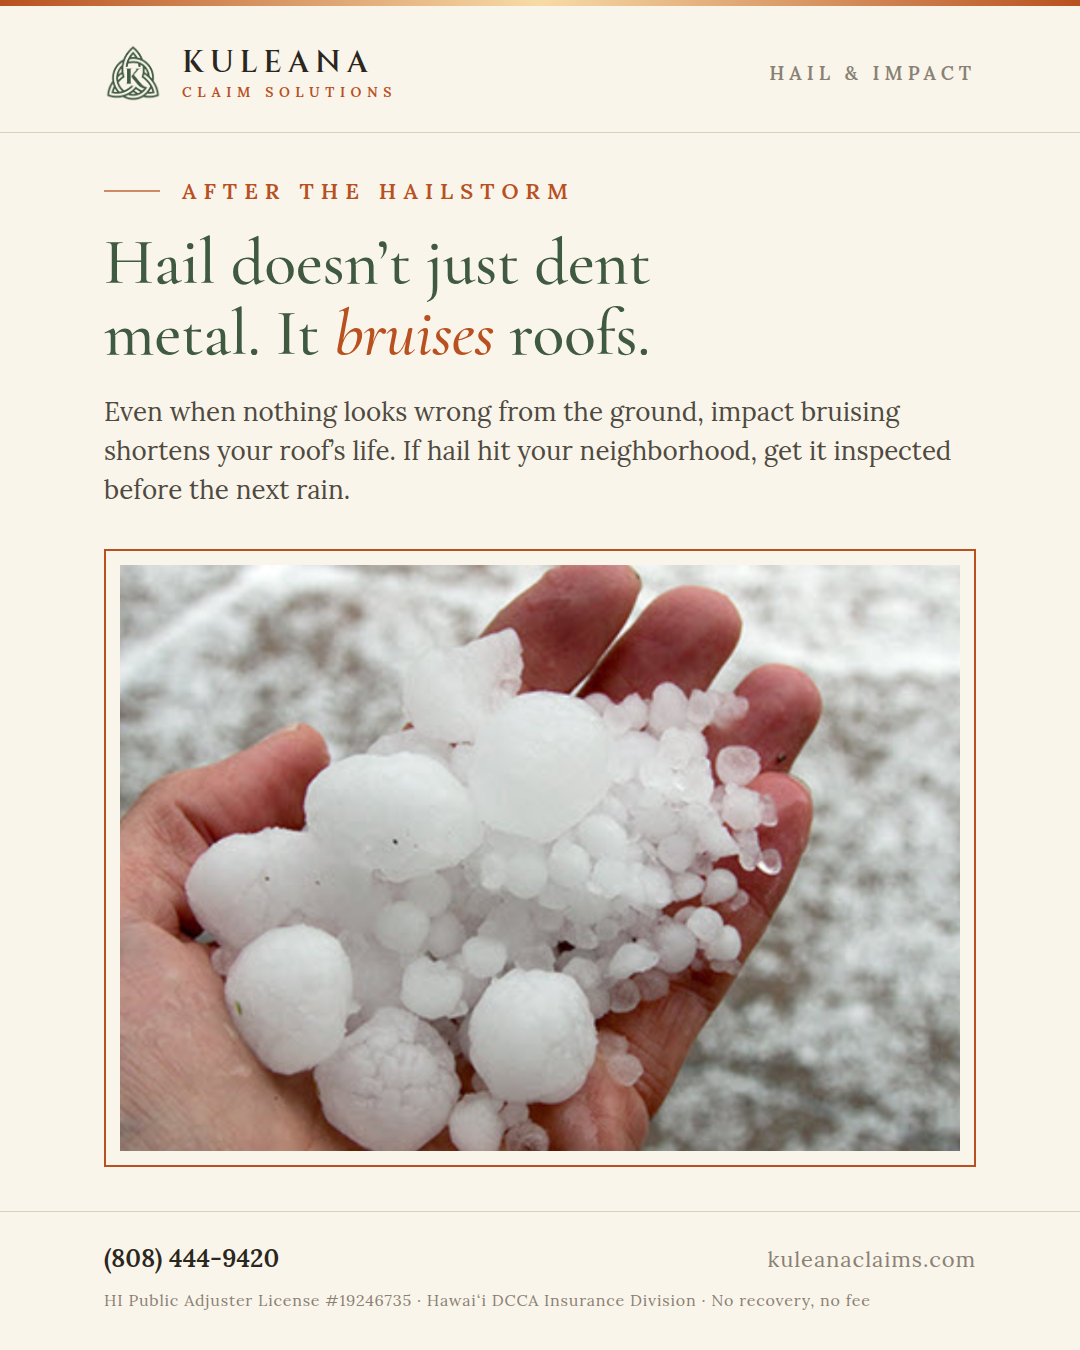
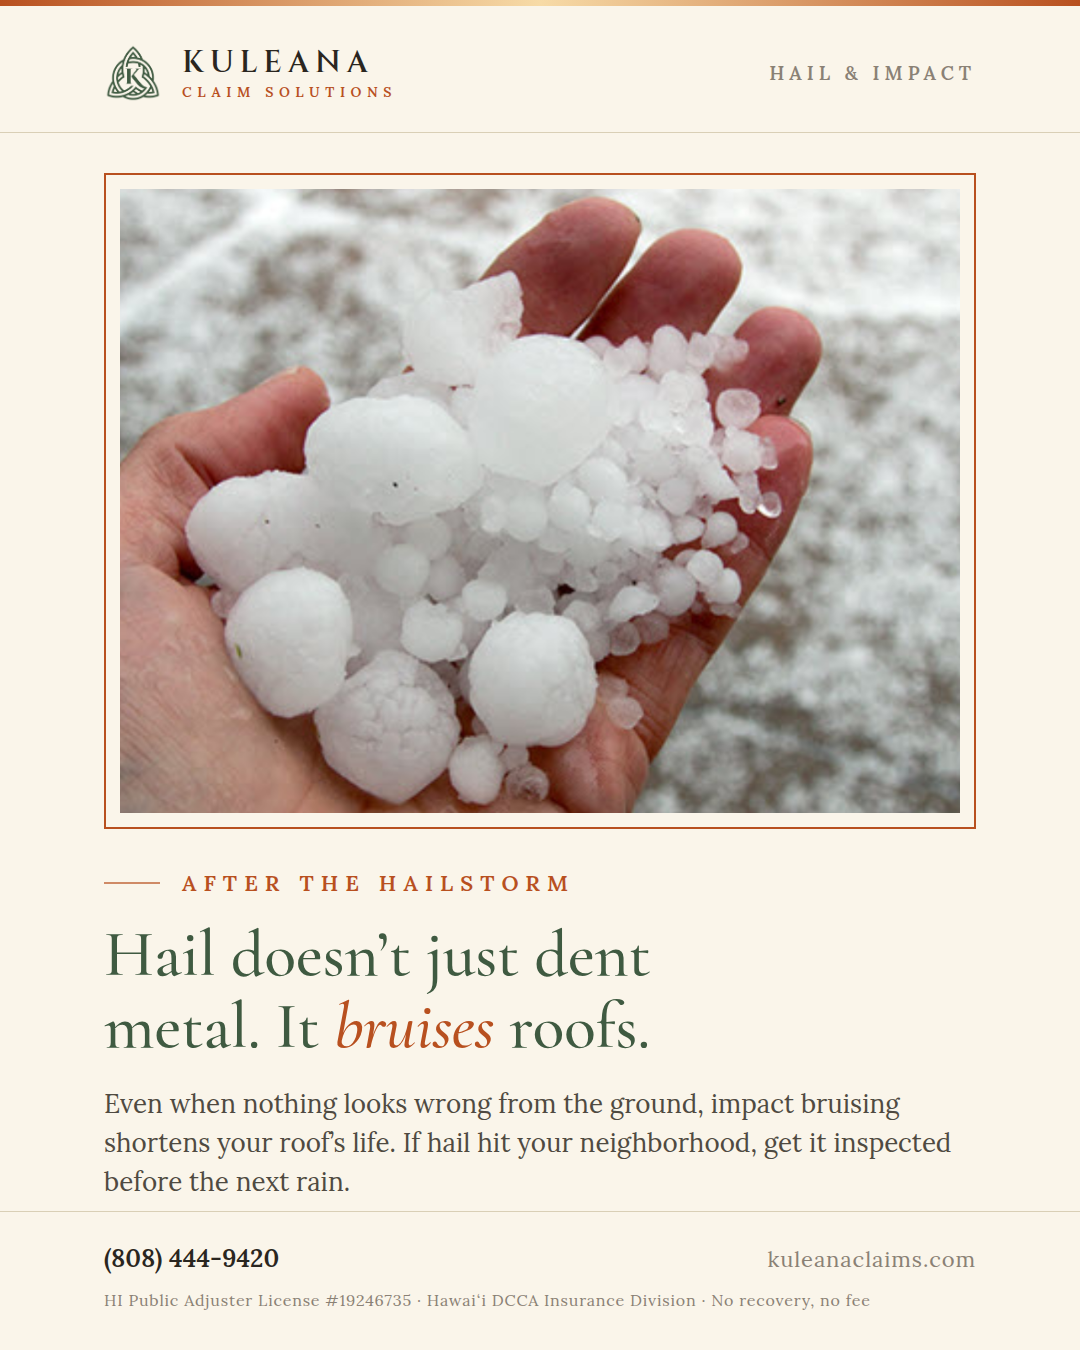
Shuffle photo-post layouts and palette across the design system
Photo posts now alternate photo-top and caption-top layouts and rotate
the brand palette (6 cream, 5 deep green, 3 terracotta) with matching
gold/cream frame treatments on dark tiles. Review sheets regenerated.

Claude-Session: https://claude.ai/code/session_012ermQFeXKetnBLvQfiukPr

diff --git a/instagram/kuleana-instagram-posts.html b/instagram/kuleana-instagram-posts.html
@@ -240,6 +240,10 @@ body { background: #E9E2D2; display: flex; flex-direction: column; align-items: 
 
 /* ================= PHOTO POSTS ================= */
 .photo-frame { flex: 1; min-height: 0; position: relative; margin: 40px 104px 44px; border: 2px solid #B8501F; padding: 14px; background: #FAF5EA; }
+.post--green .photo-frame { border-color: #F7DBA7; background: #3F5A41; }
+.post--terra .photo-frame { border-color: #FAF5EA; background: #B8501F; }
+.post--phototop .photo-frame { margin: 40px 104px 0; }
+.post--phototop .photo-body { padding: 40px 104px 10px; }
 .photo-frame img { width: 100%; height: 100%; object-fit: cover; display: block; }
 .photo-tag {
   position: absolute; right: 30px; bottom: 30px;
@@ -575,7 +579,7 @@ POST 10 · Denial quote
 <!-- ============================================================
 POST 11 · Photo post — ceiling water damage
 ============================================================ -->
-<div class="post" data-canvas-width="1080" data-canvas-height="1350">
+<div class="post post--green post--phototop" data-canvas-width="1080" data-canvas-height="1350">
   <div class="goldline"></div>
   <header class="head">
     <div class="brandlock">
@@ -584,13 +588,13 @@ POST 11 · Photo post — ceiling water damage
     </div>
     <div class="head-right">Water Damage</div>
   </header>
+  <div class="photo-frame">
+    <img src="img/library-water-damage.png" alt="Water-damaged ceiling with staining and peeling paint" width="948" height="588" />
+  </div>
   <div class="photo-body">
     <div class="eyebrow">What We Document</div>
     <h1 class="display">This ceiling was <em>whispering</em> long before it dripped.</h1>
     <p class="body">Bubbling, staining, sagging &mdash; we photograph, measure, and write the narrative your claim needs. Free inspection.</p>
-  </div>
-  <div class="photo-frame">
-    <img src="img/library-water-damage.png" alt="Water-damaged ceiling with staining and peeling paint" width="948" height="588" />
   </div>
   <footer class="foot">
     <div class="foot-top">
@@ -633,7 +637,7 @@ POST 12 · Photo post — roof wind damage
 <!-- ============================================================
 POST 13 · Photo post — hidden mold
 ============================================================ -->
-<div class="post" data-canvas-width="1080" data-canvas-height="1350">
+<div class="post post--terra post--phototop" data-canvas-width="1080" data-canvas-height="1350">
   <div class="goldline"></div>
   <header class="head">
     <div class="brandlock">
@@ -642,13 +646,13 @@ POST 13 · Photo post — hidden mold
     </div>
     <div class="head-right">Hidden Damage</div>
   </header>
+  <div class="photo-frame">
+    <img src="img/damage-mold.png" alt="Opened kitchen wall revealing mold growth on studs" width="948" height="588" />
+  </div>
   <div class="photo-body">
     <div class="eyebrow">Behind the Wall</div>
     <h1 class="display">What you can&rsquo;t see can <em>still</em> cost you.</h1>
     <p class="body">A supply-line leak doesn&rsquo;t stay in one room. Musty smells, discoloration, bubbling paint &mdash; document it before it spreads.</p>
-  </div>
-  <div class="photo-frame">
-    <img src="img/damage-mold.png" alt="Opened kitchen wall revealing mold growth on studs" width="948" height="588" />
   </div>
   <footer class="foot">
     <div class="foot-top">
@@ -662,7 +666,7 @@ POST 13 · Photo post — hidden mold
 <!-- ============================================================
 POST 14 · Photo post — after the storm
 ============================================================ -->
-<div class="post" data-canvas-width="1080" data-canvas-height="1350">
+<div class="post post--green" data-canvas-width="1080" data-canvas-height="1350">
   <div class="goldline"></div>
   <header class="head">
     <div class="brandlock">
@@ -691,7 +695,7 @@ POST 14 · Photo post — after the storm
 <!-- ============================================================
 POST 15 · Photo post — kitchen fire
 ============================================================ -->
-<div class="post" data-canvas-width="1080" data-canvas-height="1350">
+<div class="post post--phototop" data-canvas-width="1080" data-canvas-height="1350">
   <div class="goldline"></div>
   <header class="head">
     <div class="brandlock">
@@ -700,13 +704,13 @@ POST 15 · Photo post — kitchen fire
     </div>
     <div class="head-right">Fire &amp; Smoke</div>
   </header>
+  <div class="photo-frame">
+    <img src="img/damage-fire-kitchen.png" alt="Kitchen fire damage with charred cabinets and soot" width="948" height="588" />
+  </div>
   <div class="photo-body">
     <div class="eyebrow">Covered Peril &middot; Fire</div>
     <h1 class="display">Fire is fast. <em>Smoke</em> is thorough.</h1>
     <p class="body">The flames stopped at the kitchen. The smoke didn&rsquo;t. We document both &mdash; structure, contents, odor, and the residue carriers overlook.</p>
-  </div>
-  <div class="photo-frame">
-    <img src="img/damage-fire-kitchen.png" alt="Kitchen fire damage with charred cabinets and soot" width="948" height="588" />
   </div>
   <footer class="foot">
     <div class="foot-top">
@@ -720,7 +724,7 @@ POST 15 · Photo post — kitchen fire
 <!-- ============================================================
 POST 16 · Photo post — burst supply line
 ============================================================ -->
-<div class="post" data-canvas-width="1080" data-canvas-height="1350">
+<div class="post post--terra" data-canvas-width="1080" data-canvas-height="1350">
   <div class="goldline"></div>
   <header class="head">
     <div class="brandlock">
@@ -749,7 +753,7 @@ POST 16 · Photo post — burst supply line
 <!-- ============================================================
 POST 17 · Photo post — lanai hurricane damage
 ============================================================ -->
-<div class="post" data-canvas-width="1080" data-canvas-height="1350">
+<div class="post post--green post--phototop" data-canvas-width="1080" data-canvas-height="1350">
   <div class="goldline"></div>
   <header class="head">
     <div class="brandlock">
@@ -758,13 +762,13 @@ POST 17 · Photo post — lanai hurricane damage
     </div>
     <div class="head-right">Hurricane Season</div>
   </header>
+  <div class="photo-frame">
+    <img src="img/damage-lanai.png" alt="Hurricane wind damage to a lanai with shattered sliding door" width="948" height="588" />
+  </div>
   <div class="photo-body">
     <div class="eyebrow">Wind vs. Hurricane</div>
     <h1 class="display">Wind or hurricane? Your <em>deductible</em> knows the difference.</h1>
     <p class="body">Hawai&#699;i policies often carry a separate hurricane deductible. Which one applies can change your recovery by thousands. We read the policy first.</p>
-  </div>
-  <div class="photo-frame">
-    <img src="img/damage-lanai.png" alt="Hurricane wind damage to a lanai with shattered sliding door" width="948" height="588" />
   </div>
   <footer class="foot">
     <div class="foot-top">
@@ -807,7 +811,7 @@ POST 18 · Photo post — smoke damage living room
 <!-- ============================================================
 POST 19 · Photo post — solar panel storm damage
 ============================================================ -->
-<div class="post" data-canvas-width="1080" data-canvas-height="1350">
+<div class="post post--phototop" data-canvas-width="1080" data-canvas-height="1350">
   <div class="goldline"></div>
   <header class="head">
     <div class="brandlock">
@@ -816,13 +820,13 @@ POST 19 · Photo post — solar panel storm damage
     </div>
     <div class="head-right">Storm Damage</div>
   </header>
+  <div class="photo-frame">
+    <img src="img/damage-solar.png" alt="Storm-damaged rooftop solar panels with cracked cells" width="948" height="588" />
+  </div>
   <div class="photo-body">
     <div class="eyebrow">Don&rsquo;t Forget the Panels</div>
     <h1 class="display">Your roof isn&rsquo;t the <em>only thing</em> up there.</h1>
     <p class="body">Cracked cells and lifted racking are storm damage too. Panels, mounts, wiring, and lost production all belong in your claim.</p>
-  </div>
-  <div class="photo-frame">
-    <img src="img/damage-solar.png" alt="Storm-damaged rooftop solar panels with cracked cells" width="948" height="588" />
   </div>
   <footer class="foot">
     <div class="foot-top">
@@ -836,7 +840,7 @@ POST 19 · Photo post — solar panel storm damage
 <!-- ============================================================
 POST 20 · Photo post — storm water intrusion
 ============================================================ -->
-<div class="post" data-canvas-width="1080" data-canvas-height="1350">
+<div class="post post--green" data-canvas-width="1080" data-canvas-height="1350">
   <div class="goldline"></div>
   <header class="head">
     <div class="brandlock">
@@ -865,7 +869,7 @@ POST 20 · Photo post — storm water intrusion
 <!-- ============================================================
 POST 21 · Photo post — hail (from Caren's library)
 ============================================================ -->
-<div class="post" data-canvas-width="1080" data-canvas-height="1350">
+<div class="post post--phototop" data-canvas-width="1080" data-canvas-height="1350">
   <div class="goldline"></div>
   <header class="head">
     <div class="brandlock">
@@ -874,13 +878,13 @@ POST 21 · Photo post — hail (from Caren's library)
     </div>
     <div class="head-right">Hail &amp; Impact</div>
   </header>
+  <div class="photo-frame">
+    <img src="img/library-hail.png" alt="Hand holding hailstones after a hailstorm" width="948" height="588" />
+  </div>
   <div class="photo-body">
     <div class="eyebrow">After the Hailstorm</div>
     <h1 class="display">Hail doesn&rsquo;t just dent metal. It <em>bruises</em> roofs.</h1>
     <p class="body">Even when nothing looks wrong from the ground, impact bruising shortens your roof&rsquo;s life. If hail hit your neighborhood, get it inspected before the next rain.</p>
-  </div>
-  <div class="photo-frame">
-    <img src="img/library-hail.png" alt="Hand holding hailstones after a hailstorm" width="948" height="588" />
   </div>
   <footer class="foot">
     <div class="foot-top">
@@ -894,7 +898,7 @@ POST 21 · Photo post — hail (from Caren's library)
 <!-- ============================================================
 POST 22 · Photo post — real inspection (Caren's photo)
 ============================================================ -->
-<div class="post" data-canvas-width="1080" data-canvas-height="1350">
+<div class="post post--green" data-canvas-width="1080" data-canvas-height="1350">
   <div class="goldline"></div>
   <header class="head">
     <div class="brandlock">
@@ -923,7 +927,7 @@ POST 22 · Photo post — real inspection (Caren's photo)
 <!-- ============================================================
 POST 23 · Photo post — meet your advocate (brand portrait)
 ============================================================ -->
-<div class="post" data-canvas-width="1080" data-canvas-height="1350">
+<div class="post post--phototop" data-canvas-width="1080" data-canvas-height="1350">
   <div class="goldline"></div>
   <header class="head">
     <div class="brandlock">
@@ -932,13 +936,13 @@ POST 23 · Photo post — meet your advocate (brand portrait)
     </div>
     <div class="head-right">The Founder</div>
   </header>
+  <div class="photo-frame">
+    <img src="img/library-founder-desk-2k.png" alt="Caren Almuina at the Kuleana Claim Solutions office" width="948" height="648" style="object-position: 50% 22%;" />
+  </div>
   <div class="photo-body">
     <div class="eyebrow">Meet Your Advocate</div>
     <h1 class="display" style="font-size: 62px;">Aloha &mdash; I&rsquo;m Caren. <em>Your</em> adjuster, not theirs.</h1>
     <p class="body" style="font-size: 25px;">Licensed public adjuster, regulated by the same DCCA that oversees your carrier. When you call Kuleana, you get me &mdash; not a call center.</p>
-  </div>
-  <div class="photo-frame">
-    <img src="img/library-founder-desk-2k.png" alt="Caren Almuina at the Kuleana Claim Solutions office" width="948" height="648" style="object-position: 50% 22%;" />
   </div>
   <footer class="foot">
     <div class="foot-top">
@@ -952,7 +956,7 @@ POST 23 · Photo post — meet your advocate (brand portrait)
 <!-- ============================================================
 POST 24 · Photo post — on-site after the storm (brand portrait)
 ============================================================ -->
-<div class="post" data-canvas-width="1080" data-canvas-height="1350">
+<div class="post post--terra" data-canvas-width="1080" data-canvas-height="1350">
   <div class="goldline"></div>
   <header class="head">
     <div class="brandlock">
